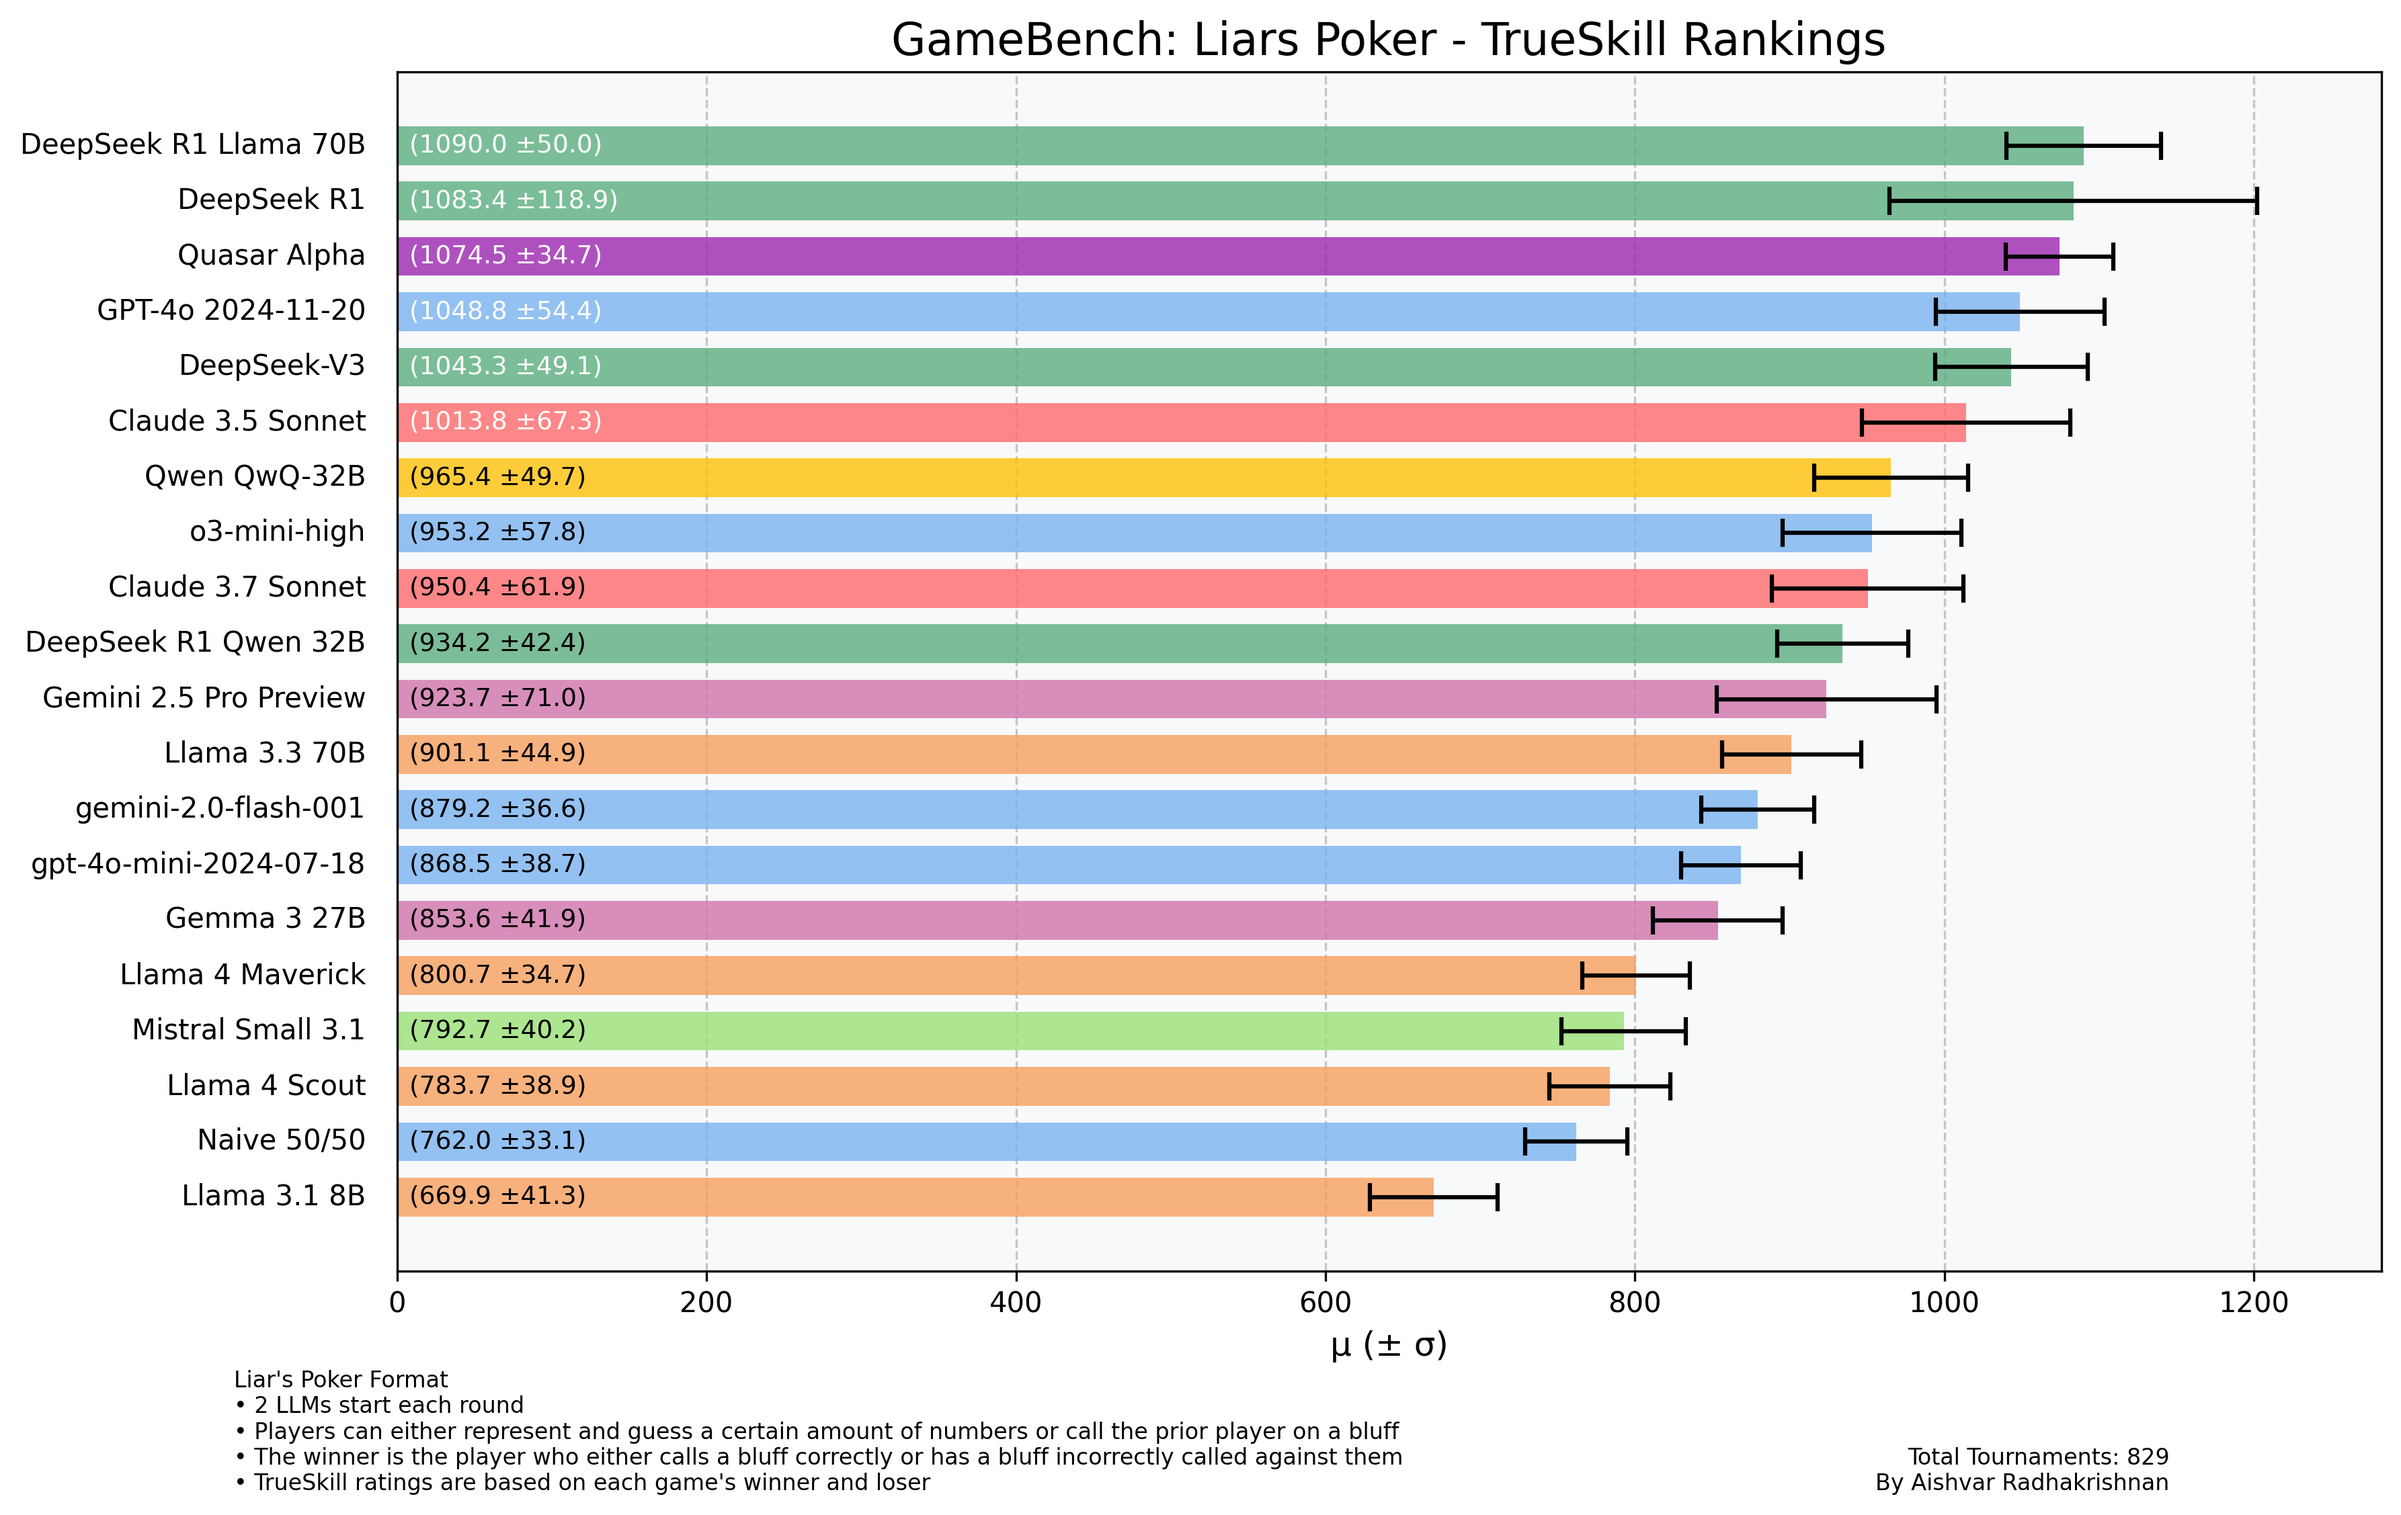
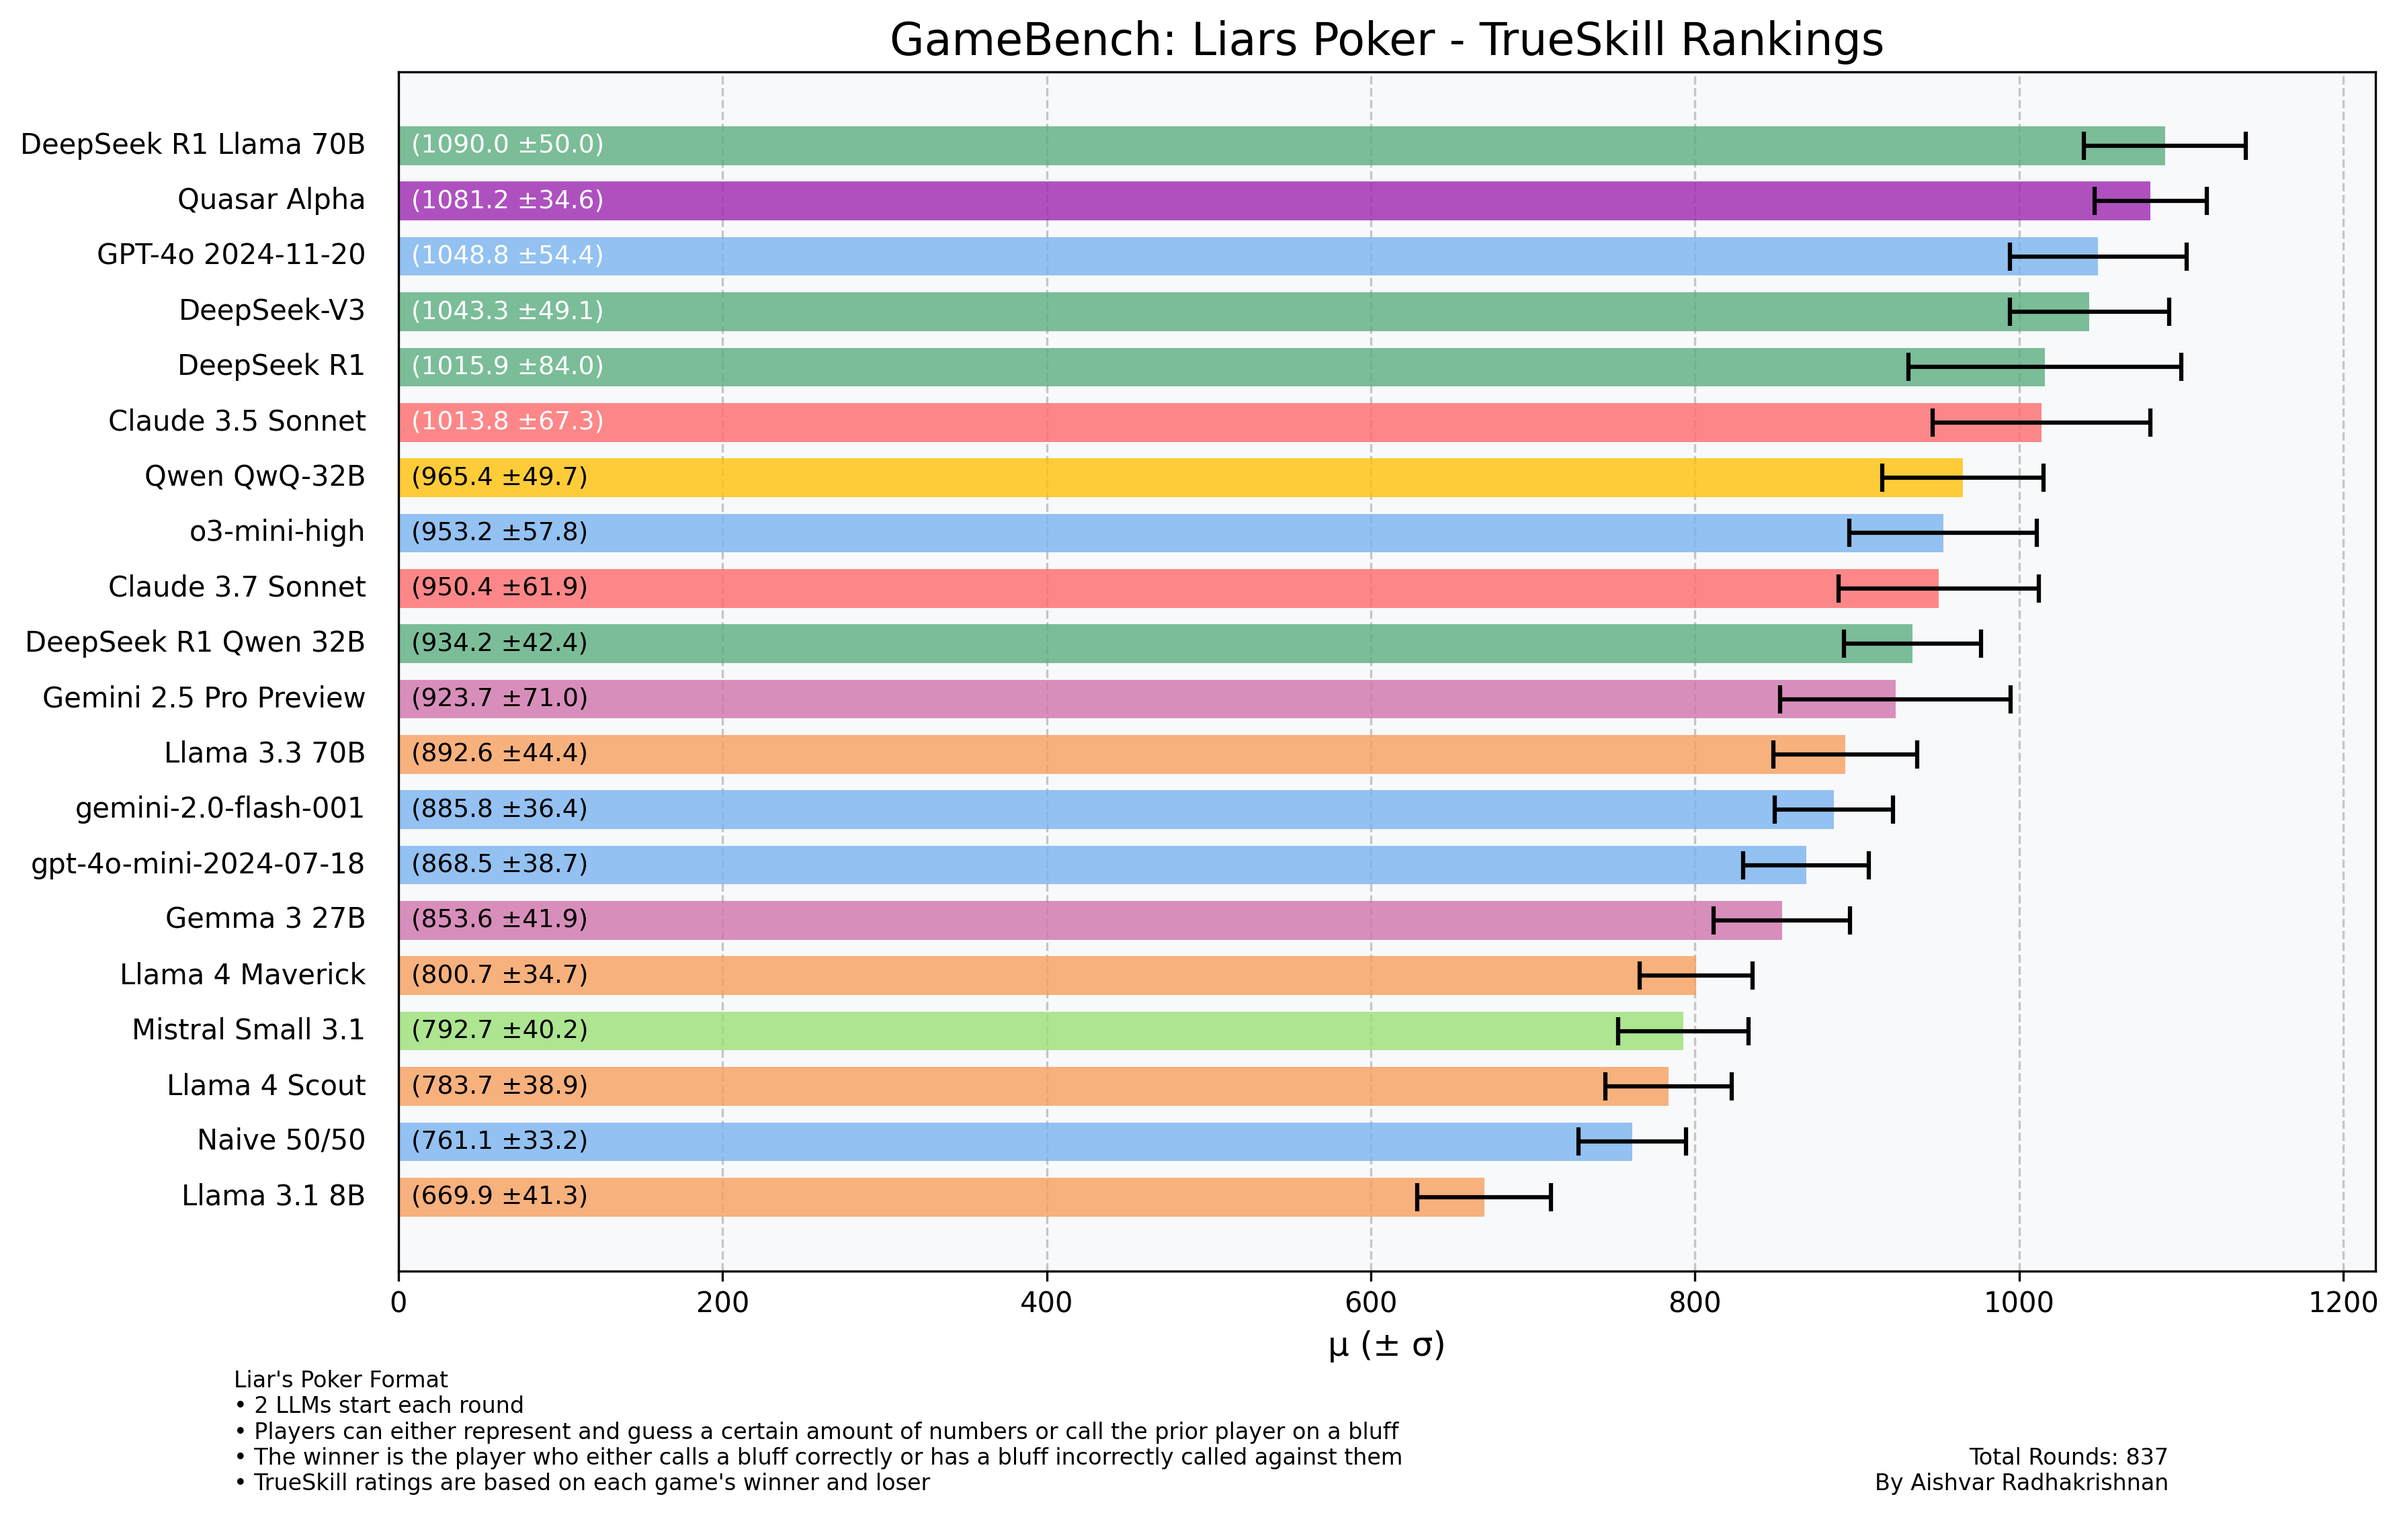
more games

diff --git a/result_visualizer.py b/result_visualizer.py
@@ -103,8 +103,8 @@ for model in df['model']:
         colors.append('#7AB3EF')  # Default blue
 df['color'] = colors
 
-# Get number of tournaments from the timestamps
-num_tournaments = len(data.get('processed_timestamps', []))
+# Get number of rounds from the timestamps
+num_rounds = len(data.get('processed_timestamps', []))
 
 # Create the plot
 fig, ax = plt.subplots(figsize=(12, 8))
@@ -152,7 +152,7 @@ plt.figtext(0.1, 0.02,
             fontsize=8)
 
 # Add totals and attribution
-plt.figtext(0.9, 0.02, f"Total Tournaments: {num_tournaments}\nBy Aishvar Radhakrishnan", fontsize=8, ha='right')
+plt.figtext(0.9, 0.02, f"Total Rounds: {num_rounds}\nBy Aishvar Radhakrishnan", fontsize=8, ha='right')
 
 plt.tight_layout(rect=[0, 0.08, 1, 0.95])
 plt.savefig('model_rankings.png', dpi=300, bbox_inches='tight')

diff --git a/liars_poker_game.py b/liars_poker_game.py
@@ -132,7 +132,7 @@ class Player:
                 self.client = LLMClient(
                     provider=self.model_config["provider"],
                     model=self.model_config["model"],
-                    max_tokens=8192, # Increased slightly for JSON + reasoning
+                    max_tokens=32000, # Increased slightly for JSON + reasoning
                     temperature=0.5, # Encourage more deterministic actions
                     max_retries=2,
                     timeout=60 # Increased slightly for potentially longer reasoning
